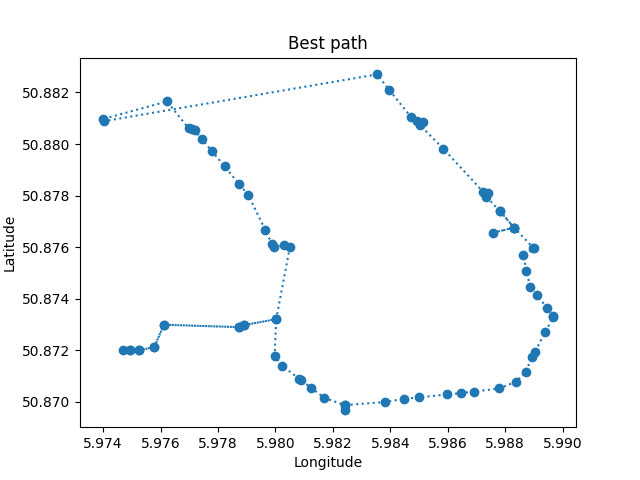
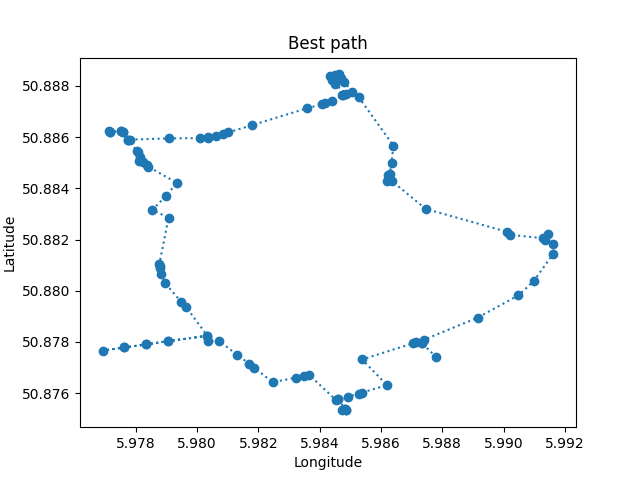
edited some parameters to make less errors

diff --git a/srm/Core/SmartRouteMaker/Facades/SmartRouteMakerFacade.py b/srm/Core/SmartRouteMaker/Facades/SmartRouteMakerFacade.py
@@ -123,7 +123,7 @@ class SmartRouteMakerFacade():
         print("flower route")
         
         # Number of circles(leafs) drawn around start as flower
-        leafs = 64
+        leafs = 32
         # Number of points per leaf # TO DO!!!!: make this amount scale with the cicumference of the circle for precision
         points_per_leaf = 6
         
@@ -131,7 +131,7 @@ class SmartRouteMakerFacade():
         radius = (max_length) / (2 * math.pi)
          # Has impact on the size of the circles(leafs)
         variance = 1
-        additonal_variance = 1.2 #used for loading in a larger graph than necessary for more headroom additive to variance ALWAYS > 1
+        additonal_variance = 1.6 #used for loading in a larger graph than necessary for more headroom additive to variance ALWAYS > 1
         
         # Load the graph
         graph = self.graph.full_geometry_point_graph(start_coordinates, radius = radius * (variance + additonal_variance)) #create a slightly larger map than necessary for more headroom
